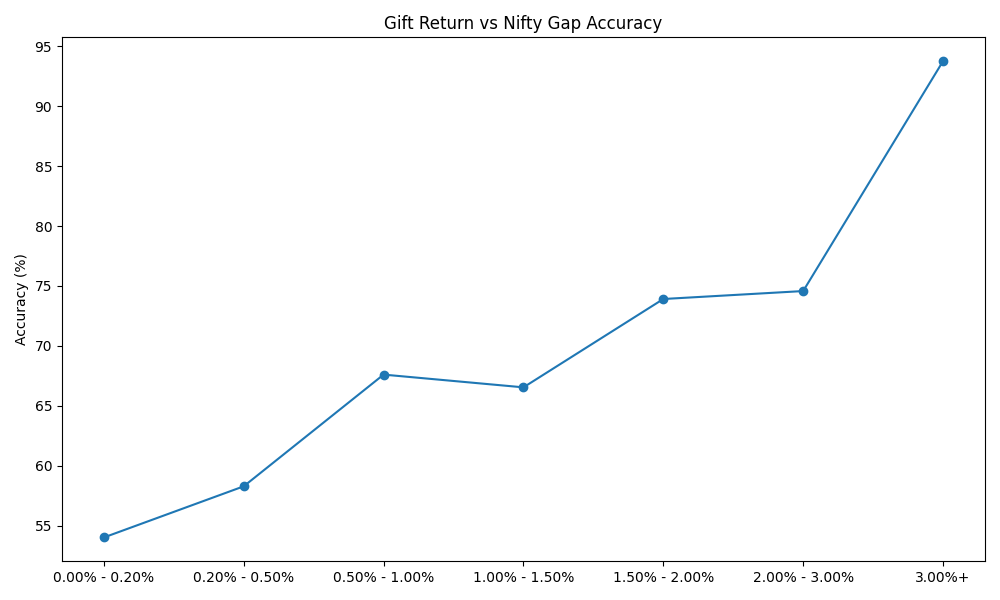
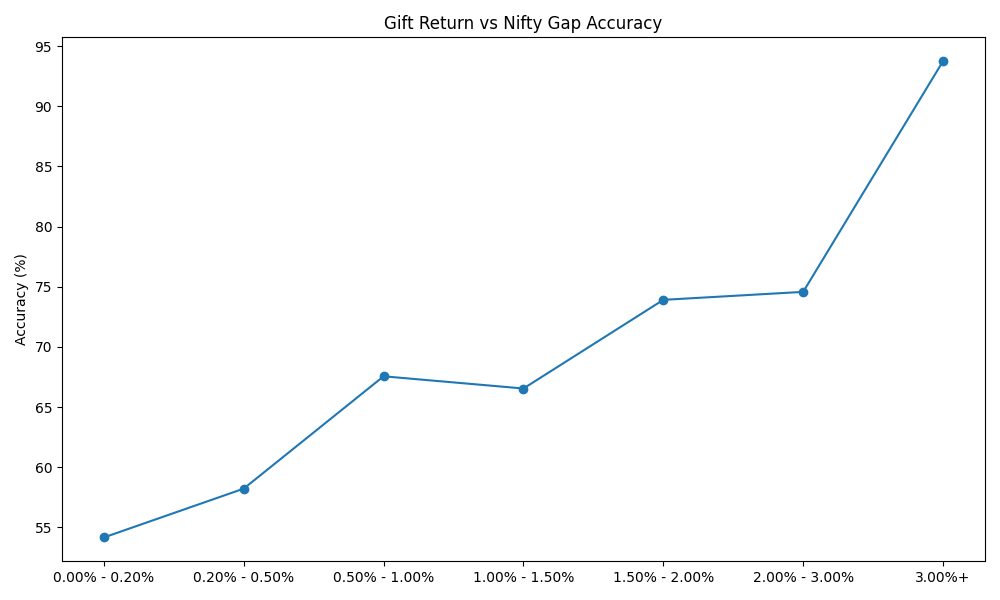
Adding lag analysis

diff --git a/scripts/run_correlation_analysis.py b/scripts/run_correlation_analysis.py
@@ -2,6 +2,7 @@ from pathlib import Path
 
 from src.analytics.directional_analysis_engine import DirectionalAnalysisEngine
 from src.analytics.correlation_engine          import CorrelationEngine
+from src.analytics.lag_analysis_engine         import LagAnalysisEngine
 from src.features.feature_builder              import FeatureBuilder
 from src.ingestion.csv_market_loader           import CsvMarketLoader
 from src.ingestion.gift_nifty_loader           import GiftNiftyLoader
@@ -61,6 +62,14 @@ def run_correlation_analysis():
     nifty_bucket_result  = bucket_engine.calculate(dataset=feature_dataset, feature="gift_return", target="nifty_gap")
     sensex_bucket_result = bucket_engine.calculate(dataset=feature_dataset, feature="gift_return", target="sensex_gap")
 
+    lag_engine = LagAnalysisEngine()
+
+    lag_results = [
+        lag_engine.calculate(feature_dataset, "gift_return", "nifty_gap"),
+        lag_engine.calculate(feature_dataset, "gift_return_lag1", "nifty_gap"),
+        lag_engine.calculate(feature_dataset,"gift_return_lag2","nifty_gap"),
+        lag_engine.calculate(feature_dataset,"gift_return_lead1","nifty_gap")
+    ]
     print("\nCorrelation Analysis")
     print("-" * 60)
     print(
@@ -113,49 +122,59 @@ def run_correlation_analysis():
             f"{result.accuracy:.2%}"
         )
 
-        chart_builder.build_scatter_plot(
-            dataset=feature_dataset,
-            target="nifty_gap",
-            output_path=Path("charts/nifty_scatter.png")
-        )
-        chart_builder.build_scatter_plot(
-            dataset=feature_dataset,
-            target="sensex_gap",
-                output_path=Path("charts/sensex_scatter.png")
-        )
+    print("\nLag Analysis")
+    print("-" * 60)
 
-        chart_builder.build_bucket_chart(
-            results=nifty_bucket_result,
-            title=(
-                "Gift Return vs "
-                "Nifty Gap Accuracy"
-            ),
-            output_path=Path(
-                "charts/nifty_bucket_accuracy.png"
-            ),
+    for result in lag_results:
+        print(
+            f"{result.feature:<20}"
+            f" -> "
+            f"{result.target:<15}"
+            f": {result.coefficient:.6f}"
         )
+    chart_builder.build_scatter_plot(
+        dataset=feature_dataset,
+        target="nifty_gap",
+        output_path=Path("charts/nifty_scatter.png")
+    )
+    chart_builder.build_scatter_plot(
+        dataset=feature_dataset,
+        target="sensex_gap",
+            output_path=Path("charts/sensex_scatter.png")
+    )
 
-        chart_builder.build_bucket_chart(
-            results=sensex_bucket_result,
-            title=(
-                "Gift Return vs "
-                "Sensex Gap Accuracy"
-            ),
-            output_path=Path(
-                "charts/sensex_bucket_accuracy.png"
-            ),
-        )
+    chart_builder.build_bucket_chart(
+        results=nifty_bucket_result,
+        title=(
+            "Gift Return vs "
+            "Nifty Gap Accuracy"
+        ),
+        output_path=Path(
+            "charts/nifty_bucket_accuracy.png"
+        ),
+    )
 
-        report = ResearchReport(
-            nifty_correlation=nifty_result,
-            sensex_correlation=sensex_result,
+    chart_builder.build_bucket_chart(
+        results=sensex_bucket_result,
+        title=(
+            "Gift Return vs "
+            "Sensex Gap Accuracy"
+        ),
+        output_path=Path(
+            "charts/sensex_bucket_accuracy.png"
+        ),
+    )
 
-            nifty_directional=nifty_direction_result,
-            sensex_directional=sensex_direction_result,
+    report = ResearchReport(
+        nifty_correlation=nifty_result,
+        sensex_correlation=sensex_result,
 
-            nifty_buckets=nifty_bucket_result,
-            sensex_buckets=sensex_bucket_result,
-        )
+        nifty_directional=nifty_direction_result,
+        sensex_directional=sensex_direction_result,
+
+        nifty_buckets=nifty_bucket_result,
+        sensex_buckets=sensex_bucket_result,
+    )
 
     MarkdownReportBuilder().build(
         report=report,

diff --git a/src/features/feature_builder.py b/src/features/feature_builder.py
@@ -7,8 +7,10 @@ class FeatureBuilder:
         df = aligned_dataset.data.copy()
 
         ## Feature
-        df["gift_return"] = df["gift_close"].pct_change()
-
+        df["gift_return"]       = df["gift_close"].pct_change()
+        df['gift_return_lag1']  = df['gift_return'].shift(1)
+        df['gift_return_lag2']  = df['gift_return'].shift(2)
+        df['gift_return_lead1'] = df['gift_return'].shift(-1)
 
         # Target
         df["nifty_previous_close"] = df["nifty_close"].shift(1)
@@ -18,7 +20,12 @@ class FeatureBuilder:
 
         df = df.dropna().reset_index(drop=True)
 
-        feature_df = df[['date', 'gift_return', 'nifty_gap', 'sensex_gap']]
+        feature_df = df[[
+            'date',
+            'gift_return', 'gift_return_lag1', 'gift_return_lag2', 'gift_return_lead1',
+            'nifty_gap',
+            'sensex_gap'
+        ]]
 
         return FeatureDataset(
             data=feature_df

diff --git a/src/analytics/lag_analysis_engine.py b/src/analytics/lag_analysis_engine.py
@@ -1,0 +1,11 @@
+from src.domain.models import LagAnalysisResult, FeatureDataset
+
+class LagAnalysisEngine():
+    def calculate(self, dataset: FeatureDataset, feature: str, target: str) -> LagAnalysisResult:
+        coefficient = dataset.data[feature].corr(dataset.data[target])
+
+        return LagAnalysisResult(
+            feature=feature,
+            target=target,
+            coefficient=float(coefficient)
+        )

diff --git a/src/domain/models.py b/src/domain/models.py
@@ -70,3 +70,9 @@ class ResearchReport:
 
     nifty_buckets : list[BucketAnalysisResult]
     sensex_buckets: list[BucketAnalysisResult]
+
+@dataclass(slots=True, frozen=True)
+class LagAnalysisResult:
+    feature    : str
+    target     : str
+    coefficient: float

diff --git a/reports/gift_nifty_analysis.md b/reports/gift_nifty_analysis.md
@@ -2,21 +2,21 @@
 
 ## Correlation Analysis
 
-- Gift Return → Nifty Gap: 0.453374
-- Gift Return → Sensex Gap: 0.430986
+- Gift Return → Nifty Gap: 0.453293
+- Gift Return → Sensex Gap: 0.430923
 
 ## Directional Analysis
 
-- Nifty Gap Accuracy: 63.43%
-- Sensex Gap Accuracy: 61.22%
+- Nifty Gap Accuracy: 63.42%
+- Sensex Gap Accuracy: 61.16%
 
 ## Nifty Bucket Analysis
 
 | Bucket | Observations | Accuracy |
 |----------|----------:|----------:|
-| 0.00% - 0.20% | 385 | 54.03% |
-| 0.20% - 0.50% | 609 | 58.29% |
-| 0.50% - 1.00% | 673 | 67.61% |
+| 0.00% - 0.20% | 384 | 54.17% |
+| 0.20% - 0.50% | 608 | 58.22% |
+| 0.50% - 1.00% | 672 | 67.56% |
 | 1.00% - 1.50% | 275 | 66.55% |
 | 1.50% - 2.00% | 138 | 73.91% |
 | 2.00% - 3.00% | 59 | 74.58% |
@@ -26,9 +26,9 @@
 
 | Bucket | Observations | Accuracy |
 |----------|----------:|----------:|
-| 0.00% - 0.20% | 385 | 52.47% |
-| 0.20% - 0.50% | 609 | 57.64% |
-| 0.50% - 1.00% | 673 | 65.08% |
+| 0.00% - 0.20% | 384 | 52.34% |
+| 0.20% - 0.50% | 608 | 57.57% |
+| 0.50% - 1.00% | 672 | 65.03% |
 | 1.00% - 1.50% | 275 | 61.09% |
 | 1.50% - 2.00% | 138 | 71.01% |
 | 2.00% - 3.00% | 59 | 72.88% |